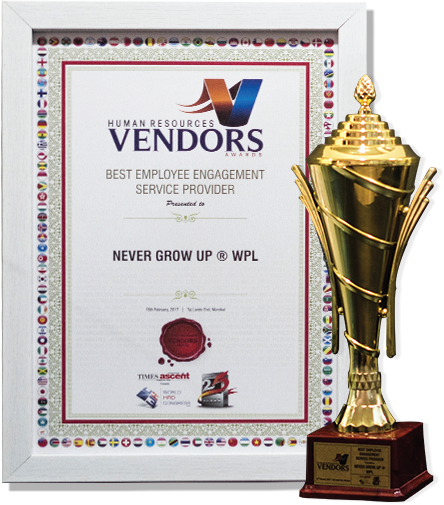
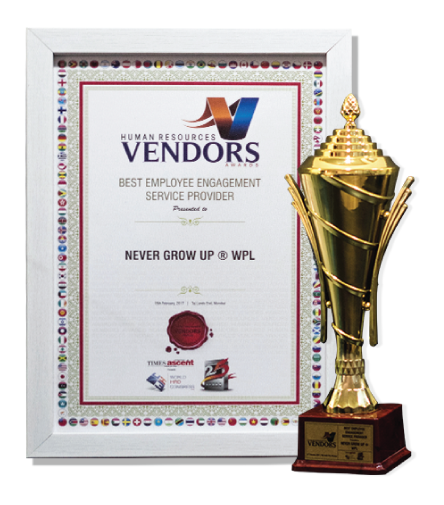
Changes images in we won section and removed encore part in we won section

diff --git a/views/content/section/awesomeness/section3.html b/views/content/section/awesomeness/section3.html
@@ -76,7 +76,7 @@ title.
 							</div>
 						</div>
 					</div>
-					<div class="row">
+					<!-- <div class="row">
 						<div class="col-md-4 col-sm-4 col-xs-12">
 							<div>
 								<img src="img/awward1.png" alt="" class="img-responsive">
@@ -91,15 +91,10 @@ title.
 								</p>
 							</div>
 						</div>
-					</div>
+					</div> -->
 					<div class="row">
-						<div class="col-md-4 col-sm-4 col-xs-12">
-							<div class="top40">
-								<img src="img/top40.jpg" alt="" class="img-responsive">
-							</div>
-						</div>
 						<div class="col-md-8 col-sm-8 col-xs-12">
-							<div class="best-award">
+							<div class="encore">
 								<h1>Top 40 Employee Engagement</h1>
 								<p class="best-award-para">
 									<strong><a href="http://www.willnevergrowup.com/" target="blank">Never Grow Up</a></strong> blog featured at #6 on the Feedspot list of <strong><a href="https://blog.feedspot.com/employee_engagement_blogs/" target="blank"> Top 40 Employee Engagement Blogs</a></strong> on
@@ -107,6 +102,11 @@ title.
 									popularity on Facebook and other social media sites, quality and consistence of posts and expert
 									reviews by Feedspot’s editorial team.
 								</p>
+							</div>
+						</div>
+						<div class="col-md-4 col-sm-4 col-xs-12">
+							<div class="top40">
+								<img src="img/top40.png" alt="" class="img-responsive">
 							</div>
 						</div>
 					</div>
